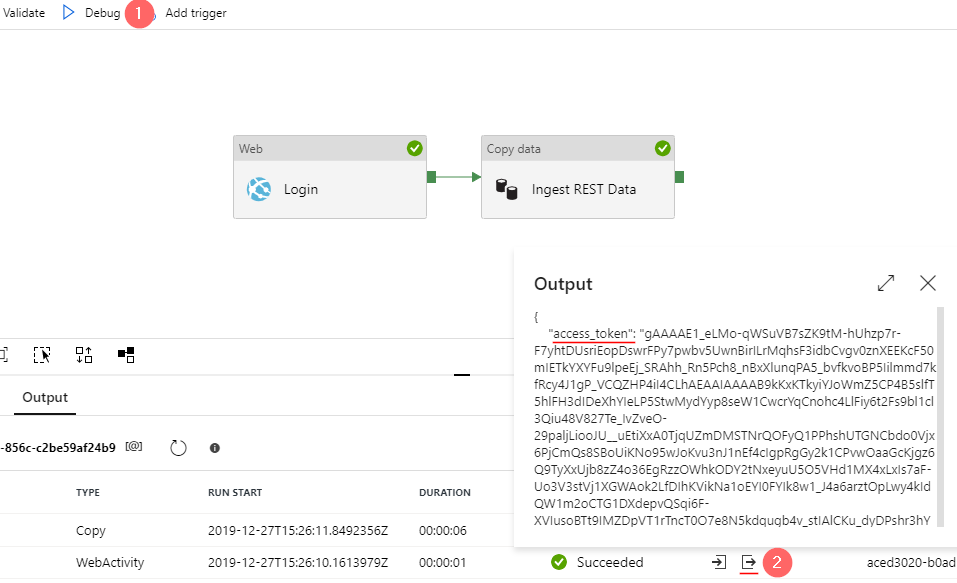
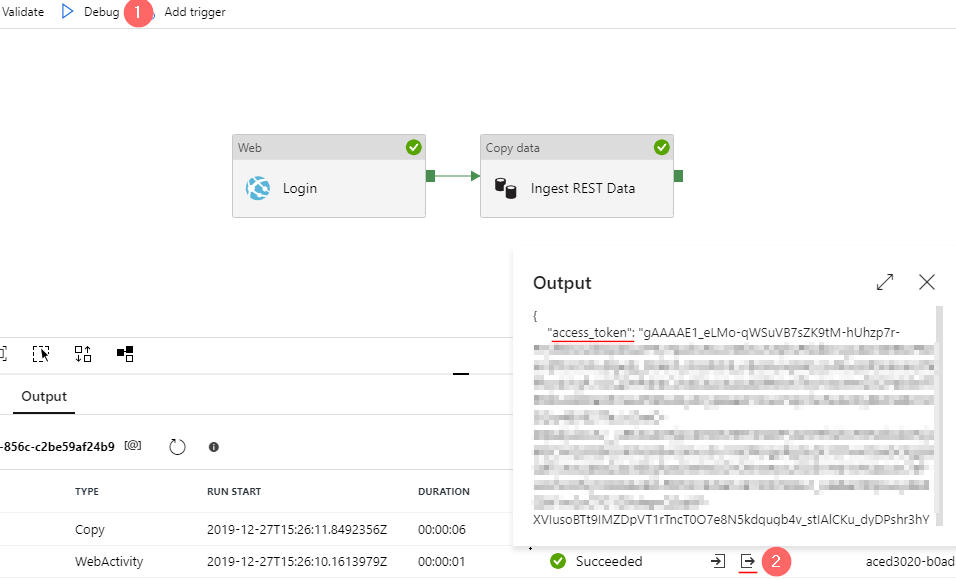
Initial post

diff --git a/_posts/2019-12-30-adfv2-rest-api-part3-securing-keyvault.md b/_posts/2019-12-30-adfv2-rest-api-part3-securing-keyvault.md
@@ -1,0 +1,54 @@
+---
+layout: post
+title: Azure Data Factory and REST APIs - Encrypting Secrets with a Key Vault
+description: Azure Data Factory and REST APIs - Encrypting Secrets with a Key Vault
+comments: false
+keywords: Azure Data Factory REST API Encrypting Key Vault
+published: true 
+---
+
+
+In this blog post I would like to put a light on a mapping and then pagination of a Copy activity which are often required for the ingestion of REST data. 
+
+Mapping is optional for structured data, like databases, parquet or csv files, because the incoming dataset contains an inherited structure, so the Data Factory is smart enough to set it as a default mapping on a fly. 
+
+However, to ingest hierarchical data like JSON or REST and then load it in as a tabular format an explicit schema mapping is required. In the previous blog post – <a href="/2019/adfv2-rest-api-part2-copy-activity">Azure Data Factory and REST APIs - Setting up a Copy activity</a> – such mapping was not provided yet explicitly. As a result, ADF was not able to write an incoming data streams in a tabular form and created an empty csv file. This post will fill such gap. Also, it will cover pagination which is also a common thing for REST APIs.
+
+
+#### Prerequisites
+
+ 1.   Azure Key Vault
+ 2.	REST API Data source. I use ExactOnline SaaS service in this post as an example.
+ 3.	Azure Storage account.
+
+
+<img src="/assets/images/posts/adf-rest-p4/step1-1.png" alt="Step 1-1" /> 
+
+<img src="/assets/images/posts/adf-rest-p4/step1-2.png" alt="Step 1-2" /> 
+
+<img src="/assets/images/posts/adf-rest-p4/step1-3.png" alt="Step 1-3" /> 
+
+<img src="/assets/images/posts/adf-rest-p4/step2-1.png" alt="Step 2-1" /> 
+
+<img src="/assets/images/posts/adf-rest-p4/step2-2.png" alt="Step 2-2" /> 
+
+<img src="/assets/images/posts/adf-rest-p4/step2-3.png" alt="Step 2-3" /> 
+
+<img src="/assets/images/posts/adf-rest-p4/step2-4.png" alt="Step 2-4" /> 
+
+<img src="/assets/images/posts/adf-rest-p4/step2-5.png" alt="Step 2-5" /> 
+
+<img src="/assets/images/posts/adf-rest-p4/step3-1.png" alt="Step 3-1" /> 
+
+<img src="/assets/images/posts/adf-rest-p4/step3-2.png" alt="Step 3-2" /> 
+
+<img src="/assets/images/posts/adf-rest-p4/step3-3.png" alt="Step 3-3" /> 
+
+
+### Final words
+
+The second piece of the pipeline – a Copy activity now is finally looking complete. It does not just establishes connections with a REST data source, also it fetches all expected rows and transforms them from a hierarchical into a tabular format.
+
+In the next post of this series, it is time to touch another important topic – security and storing sensitive data like client secrets or passwords outside of Azure Data Factory.
+
+Many thanks for reading.
